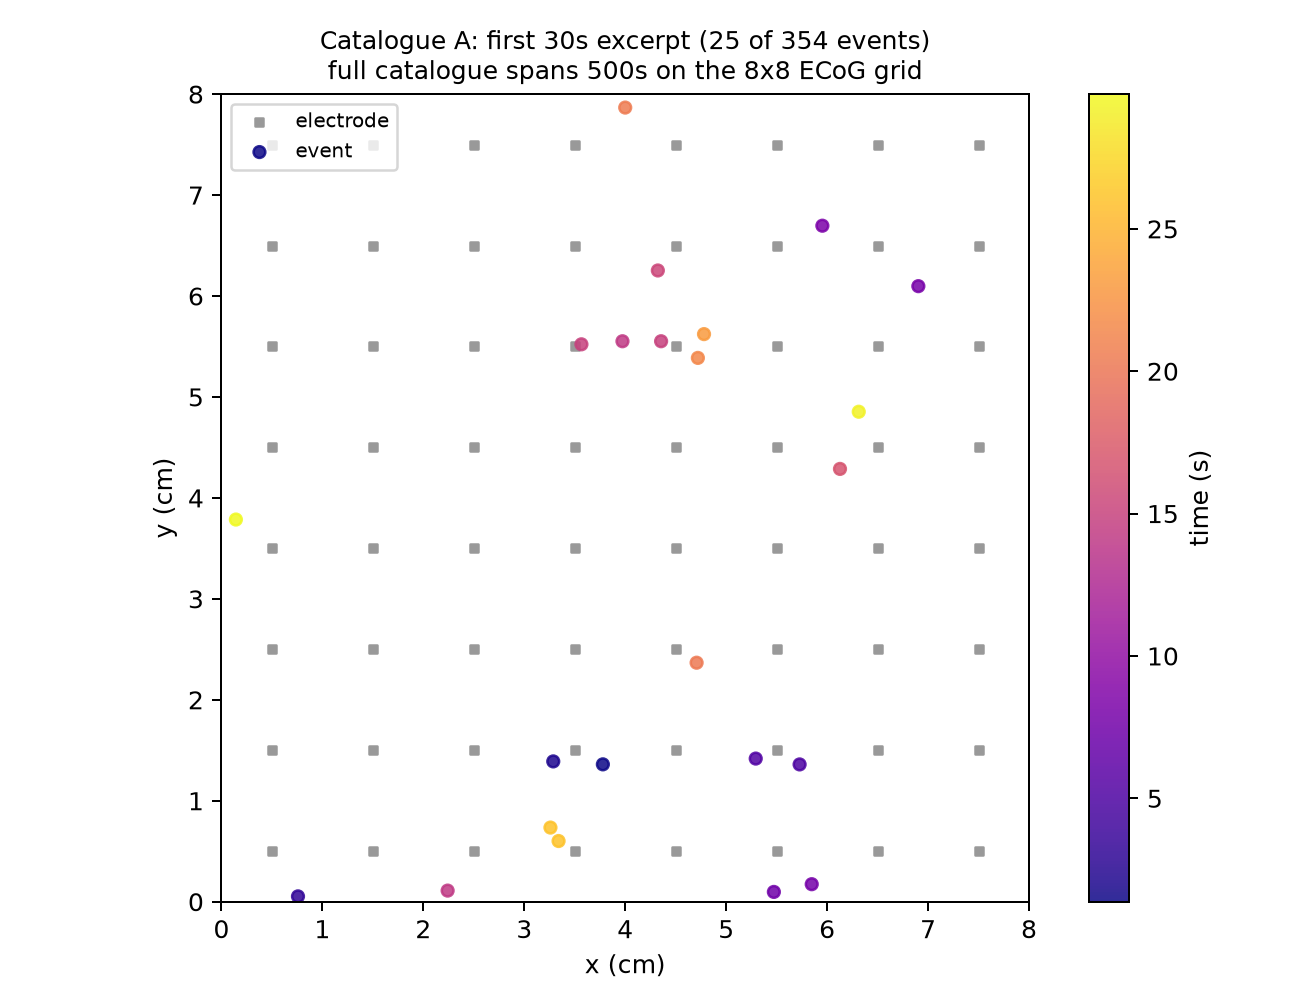
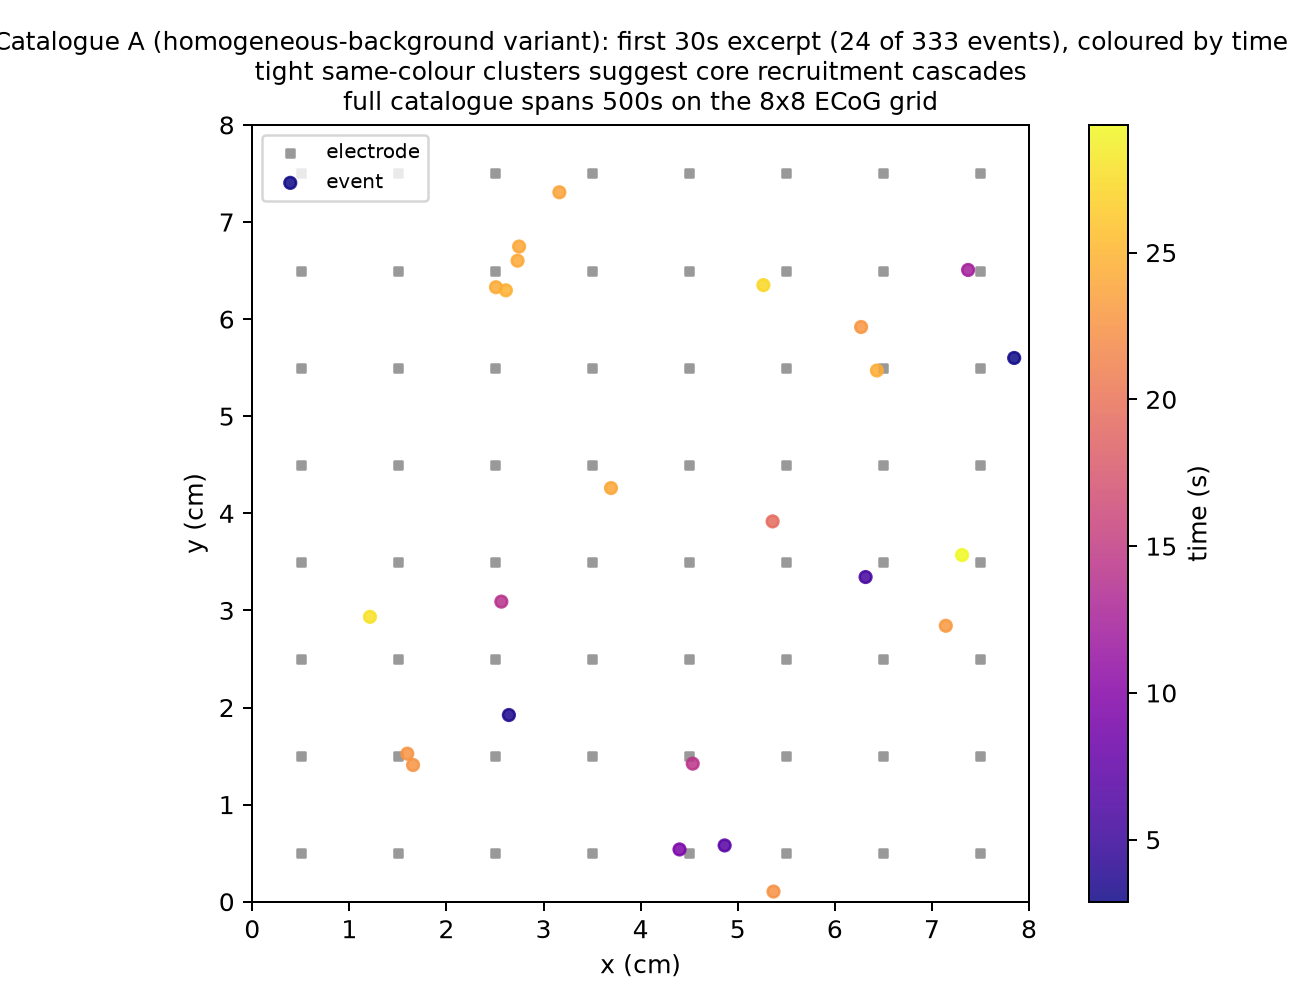
feat(extras-examples): reground spatial_hawkes_ecog in seizure core/penumbra decomposition
Reframes the space-time Hawkes + Cox-Hawkes background/excitation demo
as the clinical seizure "ictal core" (self-exciting recruitment
cascade) vs. "ictal penumbra" (tonic/hyperexcitable background)
decomposition described by Schevon et al. 2012, with the recruitment
kernel's spatial/temporal reach tied to Martinet et al. 2017 and
Truccolo et al. 2014. States explicitly that applying Cox-Hawkes to
the epilepsy core/penumbra split is a methodological opportunity, not
a result from any published epilepsy study. Relabels catalogue A
(homogeneous background) as the penumbra (background-dominated)
scenario and catalogue B (inhomogeneous LGCP background anchored at a
seizure-onset zone) as the core (self-excited cascade) scenario, and
updates print output, figure titles/labels, manifest.yml, and
extras_descriptions.yml to match. No numeric-model changes; recovered
sigma_space/c/K_branch and background_fraction are unchanged and
within tolerance.

diff --git a/examples/extras/spatial_hawkes_ecog_demo.py b/examples/extras/spatial_hawkes_ecog_demo.py
@@ -1,40 +1,103 @@
 #!/usr/bin/env python3
-"""Demo: propagating cortical activity across an ECoG grid (space-time Hawkes).
+"""Demo: seizure "core" vs. "penumbra" via space-time Hawkes + Cox-Hawkes
+on an ECoG grid.
 
 End-to-end exercise of the space-time self-exciting (ETAS-style) Hawkes
 process and the Cox-Hawkes background/excitation decomposition shipped in
 :mod:`nstat.extras.spatial`, grounded in a realistic **ECoG surface-grid**
 recording geometry:
 
+**Clinical question.**  Human intracranial recordings of focal seizures
+show a sharp spatial split between a small territory of intense,
+hypersynchronous firing where neurons are actively **recruited** into the
+seizure (the "ictal core") and a surrounding "ictal penumbra" where
+large-amplitude field potentials mask only sparse, unstructured firing,
+held back by a fast feedforward inhibitory restraint (Schevon et al.
+2012).  That same recruited-core / restrained-penumbra split organizes
+seizure activity across spatial scales as a self-propagating wave
+(Martinet et al. 2017), and shows up as tight, millisecond-precision
+neuronal-ensemble synchrony specifically within the recruited core
+(Truccolo et al. 2014).  This demo asks: **given only observed event
+times and positions, can a background/triggering decomposition recover
+which events were pulled into the self-exciting recruitment cascade (the
+core) vs. which were unrecruited background activity (the penumbra), and
+can it also localize *where* on the grid the underlying hyperexcitable
+tissue (a seizure-onset zone) sits?**
+
+**Modeling correspondence.**  The self-exciting Hawkes triggering kernel
+*is* the recruitment mechanism that builds a core: each discharge raises
+the near-term, nearby-in-space probability that its neighbours are
+recruited into synchronized firing -- exactly the hypersynchronous-cascade
+phenomenology above.  The background intensity -- homogeneous in
+catalogue A, an inhomogeneous log-Gaussian-Cox (LGCP) field anchored at a
+fixed hyperexcitable "seizure-onset zone" in catalogue B -- is the source
+of unrecruited, penumbra-like activity.  Declustering an event catalogue
+(branching EM's ``P(background)`` responsibilities) therefore *is* a
+core/penumbra classification at the single-event level: low
+``P(background)`` events were recruited into a cascade (core); high
+``P(background)`` events were not (penumbra).
+
 **Scenario.**  An **8x8 ECoG grid** (1cm pitch) captures self-exciting
 spatiotemporal spread of cortical events over a multi-minute continuous
 epoch -- the textbook model for interictal-spike propagation or
 travelling waves: each event *raises the probability* of a
-nearby-and-soon-after event, on top of a background rate that may itself
-vary across the grid (e.g. a chronically more active region near a
-lesion or epileptogenic focus).  Clinical interictal-spike-propagation
-studies routinely analyze continuous multi-minute (not sub-second)
-epochs precisely because the temporal/spatial triggering kernel is only
-well identified once many propagation cascades have been observed --
-this demo's ~4-8 minute synthetic epochs are chosen for that reason, not
-for narrative convenience.  All catalogues are fully synthetic branching
-simulations -- no real recording or dataset is used or claimed.
+nearby-and-soon-after event (recruitment into the core), on top of a
+background rate that supplies the unrecruited penumbra activity.  Both
+catalogues below demonstrate that *same* core(=triggered)/
+penumbra(=background) decomposition within a single recording; they
+differ only in the background model the estimator must contend with, not
+in which one is "core" and which is "penumbra".  Catalogue A gives the
+background a **homogeneous** rate everywhere on the grid -- no spatial
+landmark to go by, so branching EM's per-event declustering is the only
+way to tell core (triggered) from penumbra (background) events apart.
+Catalogue B instead anchors the background to a fixed,
+spatially-**inhomogeneous** hyperexcitable "seizure-onset zone", so that
+both the elevated background rate and the self-exciting cascade it seeds
+concentrate near that zone, and the Cox-Hawkes alternating estimator must
+separate the slow hyperexcitable-tissue field from the fast recruitment
+kernel riding on top of it.  Clinical interictal-spike-propagation studies routinely
+analyze continuous multi-minute (not sub-second) epochs precisely because
+the temporal/spatial triggering kernel is only well identified once many
+recruitment cascades have been observed -- this demo's ~4-8 minute
+synthetic epochs are chosen for that reason, not for narrative
+convenience.  All catalogues are fully synthetic branching simulations --
+no real recording or dataset is used or claimed.
+
+**Novelty.**  Cox-Hawkes (Miscouridou et al. 2022) -- a doubly-stochastic
+LGCP-background-plus-Hawkes-triggering model developed in the statistics
+literature for seismology/social-media cascades -- has not, to our
+knowledge, previously been applied to the epilepsy core/penumbra
+decomposition.  This demo presents that combination as a methodological
+opportunity for separating recruited-core from restrained-penumbra
+activity and localizing the seizure-onset zone, not as a result drawn
+from any published epilepsy study.
 
 Demonstrates:
 
-1. :func:`nstat.extras.spatial.simulate_spatial_hawkes` -- a synthetic
-   propagating catalogue on the grid with a **homogeneous** background.
+1. :func:`nstat.extras.spatial.simulate_spatial_hawkes` -- catalogue A,
+   the **homogeneous-background variant**: a synthetic recruitment-cascade
+   catalogue on the grid with a spatially uniform background.
 2. :func:`nstat.extras.spatial.em_spatial_hawkes` -- recover
    ``(mu, K_branch, c, sigma_space)`` by branching EM; ``sigma_space`` is
-   the **spatial spread of triggering** (how far, in cm, one event's
-   influence reaches) and ``1 / c`` is the **temporal triggering window**
-   (how soon offspring tend to follow, in seconds).
+   the **spatial spread of recruitment** (how far, in cm, one discharge's
+   influence reaches) and ``1 / c`` is the **temporal recruitment window**
+   (how soon recruited offspring tend to follow, in seconds); the
+   returned responsibilities also give a per-event core/penumbra
+   declustering.
 3. :func:`nstat.extras.spatial.simulate_cox_hawkes` /
-   :func:`nstat.extras.spatial.fit_cox_hawkes` -- a second catalogue with
-   an **inhomogeneous** log-Gaussian-Cox background (a fixed "hot" region
-   of the grid) plus the same self-excitation; the alternating estimator
-   separates the slow background-rate field from the fast self-excitation
-   kernel.
+   :func:`nstat.extras.spatial.fit_cox_hawkes` -- catalogue B, the
+   **inhomogeneous LGCP-background variant**: a second catalogue with a
+   fixed hyperexcitable "seizure-onset zone" background plus the same
+   self-exciting recruitment; the alternating estimator separates the
+   slow hyperexcitable-tissue (penumbra-source) field from the fast
+   recruitment (core) kernel.
+
+See also :mod:`spatial_gof_ecog_demo` -- asks whether concentrated ECoG
+activity is a genuinely propagating wavefront or a static hot-spot, the
+question this demo's core/penumbra decomposition presupposes an answer
+to; and :mod:`spatial_gibbs_demo` -- a complementary second-order-structure
+story (repulsion / exclusion-zone spacing) for electrode and contact
+placement rather than event recruitment.
 
 The script is **fully synthetic** -- no figshare dataset access required.
 
@@ -51,6 +114,21 @@ the repository -- the export flag exists for local inspection only.  CI
 never invokes it.
 
 References:
+
+Clinical motivation (human ictal core/penumbra structure):
+
+- Schevon CA, Weiss SA, McKhann G Jr, Goodman RR, Yuste R, Emerson RG,
+  Trevelyan AJ (2012). *Evidence of an inhibitory restraint of seizure
+  activity in humans.* Nat Commun 3:1060.
+- Truccolo W, Ahmed OJ, Harrison MT, Eskandar EN, Cosgrove GR, Madsen JR,
+  Blum AS, Potter NS, Hochberg LR, Cash SS (2014). *Neuronal ensemble
+  synchrony during human focal seizures.* J Neurosci 34(30):9927-9944.
+- Martinet LE, Fiddyment G, Madsen JR, Eskandar EN, Truccolo W, Eden UT,
+  Cash SS, Kramer MA (2017). *Human seizures couple across spatial scales
+  through travelling wave dynamics.* Nat Commun 8:14896.
+
+Statistical methods:
+
 - Veen A, Schoenberg FP (2008). *Estimation of space-time branching
   process models in seismology using an EM-type algorithm.* JASA
   103(482):614-624.
@@ -60,6 +138,8 @@ References:
   occurrences.* Ann. Inst. Statist. Math. 50(2):379-402.
 - Miscouridou X, Bhatt S, Mohler G, Flaxman S, Bhamidi S (2022).
   *Cox-Hawkes: doubly stochastic spatiotemporal Poisson processes.* TMLR.
+  (Applying it to the epilepsy core/penumbra decomposition is, to our
+  knowledge, novel -- see "Novelty" above.)
 - Moller J, Rasmussen JG (2005). *Perfect simulation of Hawkes
   processes.* Adv. Appl. Probab. 37(3):629-646 (branching simulator).
 """
@@ -89,10 +169,14 @@ GRID_EDGE_CM = 2.0 * MARGIN_CM + PITCH_CM * (N_SIDE - 1)  # == 8.0 cm
 
 DOMAIN = ((0.0, GRID_EDGE_CM), (0.0, GRID_EDGE_CM))
 
-# Catalogue A: homogeneous background + self-excitation.  ``c`` (temporal
-# decay, /s) and ``T`` are chosen so that T is long relative to the mean
-# triggering delay 1/c -- branching EM only identifies (K_branch, c) well
-# once many decay cycles have been observed (per the companion test
+# Catalogue A: homogeneous-background variant -- a spatially uniform
+# background (no anatomical landmark) plus the same self-exciting
+# recruitment cascade (core) as catalogue B.  Branching EM recovers the
+# core (triggered) vs. penumbra (background) split for each event via its
+# ``P(background)`` responsibilities.  ``c`` (temporal decay, /s) and
+# ``T`` are chosen so that T is long relative to the mean recruitment
+# delay 1/c -- branching EM only identifies (K_branch, c) well once many
+# recruitment cascades have been observed (per the companion test
 # ``tests/extras/test_spatial_spatial_hawkes.py::test_em_recovers_all_four_params``,
 # which uses the same T >> 1/c regime).
 MU_TRUE = 0.4  # events/s
@@ -101,7 +185,12 @@ C_TRUE = 1.2  # mean triggering delay 1/c ~= 0.83s
 SIGMA_SPACE_TRUE = 0.35
 T_A = 500.0  # ~8.3 minute continuous epoch
 
-# Catalogue B: inhomogeneous (Cox) background + self-excitation.
+# Catalogue B: inhomogeneous LGCP-background variant -- a spatially
+# varying (Cox) hyperexcitable "seizure-onset zone" background, near
+# which the self-exciting recruitment cascade concentrates, plus the
+# same self-excitation kernel as catalogue A.  The Cox-Hawkes alternating
+# estimator recovers the same core (triggered) vs. penumbra (background)
+# split as catalogue A, this time against a non-uniform background field.
 #
 # ``fit_cox_hawkes`` has no ``length_scale_space``/``length_scale_time``
 # passthrough to its internal ``lgcp_st_fit`` call -- it always uses that
@@ -170,7 +259,7 @@ def run_demo(
     visible: bool = True,
     plot_style: str = "legacy",
 ) -> dict:
-    """Run the ECoG propagating-activity space-time Hawkes demo.
+    """Run the ECoG seizure core/penumbra space-time Hawkes + Cox-Hawkes demo.
 
     Returns
     -------
@@ -189,7 +278,8 @@ def run_demo(
     )
 
     print("=" * 72)
-    print("Space-time Hawkes propagation on a synthetic 8x8 ECoG grid")
+    print("Seizure core/penumbra decomposition via space-time Hawkes "
+          "on a synthetic 8x8 ECoG grid")
     print("=" * 72)
     print(
         f"Grid footprint: {GRID_EDGE_CM:.1f}cm x {GRID_EDGE_CM:.1f}cm, "
@@ -204,12 +294,16 @@ def run_demo(
     # not silently shift whenever catalogue A's simulation code changes.
     rng_b = np.random.default_rng(seed + 3)
 
-    # ---- Catalogue A: homogeneous background + self-excitation. ----
+    # ---- Catalogue A: homogeneous-background variant + the same
+    # self-exciting recruitment (core) cascade as catalogue B. ----
     pts_a, t_a = simulate_spatial_hawkes(
         MU_TRUE, K_BRANCH_TRUE, C_TRUE, SIGMA_SPACE_TRUE,
         domain=DOMAIN, T=T_A, rng=rng,
     )
-    print(f"Catalogue A (homogeneous bg): {pts_a.shape[0]} events over {T_A:.1f}s")
+    print(
+        f"Catalogue A -- homogeneous-background variant: "
+        f"{pts_a.shape[0]} events over {T_A:.1f}s"
+    )
 
     fit_a = em_spatial_hawkes(
         pts_a, t_a, domain=DOMAIN, T=T_A,
@@ -217,19 +311,21 @@ def run_demo(
         return_responsibilities=True,
     )
     print()
-    print("Catalogue A recovery (branching EM):")
+    print("Catalogue A recovery (branching EM -- core-cascade kernel + penumbra declustering):")
     print(f"  {'param':>14} | {'true':>8} | {'fitted':>8}")
     print(f"  {'mu (rate, /s)':>14} | {MU_TRUE:8.3f} | {fit_a.mu_hat:8.3f}")
     print(f"  {'K_branch':>14} | {K_BRANCH_TRUE:8.3f} | {fit_a.K_branch_hat:8.3f}")
     print(f"  {'c (1/s)':>14} | {C_TRUE:8.3f} | {fit_a.c_hat:8.3f}")
     print(f"  {'sigma_space (cm)':>14} | {SIGMA_SPACE_TRUE:8.3f} | {fit_a.sigma_space_hat:8.3f}")
     print(
-        f"  interpretation: triggering reaches ~{fit_a.sigma_space_hat:.2f}cm "
+        f"  interpretation: core recruitment reaches ~{fit_a.sigma_space_hat:.2f}cm "
         f"spatially and decays with a ~{1.0 / fit_a.c_hat:.2f}s time window "
         f"(converged={fit_a.converged}, n_iter={fit_a.n_iter})"
     )
 
-    # ---- Catalogue B: inhomogeneous (Cox) background + self-excitation. ----
+    # ---- Catalogue B: inhomogeneous LGCP-background variant
+    # (seizure-onset-zone background) + the same self-exciting
+    # recruitment cascade as catalogue A. ----
     # Simulated + fit on the normalized unit-square DOMAIN_B (see the
     # module-level note by DOMAIN_B for why).
     pts_b, t_b = simulate_cox_hawkes(
@@ -238,7 +334,11 @@ def run_demo(
     )
     pts_b, t_b = _clip_to_domain(pts_b, t_b, domain=DOMAIN_B)
     print()
-    print(f"Catalogue B (inhomogeneous bg): {pts_b.shape[0]} events over {T_B:.1f}s")
+    print(
+        f"Catalogue B -- inhomogeneous LGCP-background variant "
+        f"(seizure-onset-zone background): {pts_b.shape[0]} events over "
+        f"{T_B:.1f}s"
+    )
 
     fit_b = fit_cox_hawkes(
         pts_b, t_b, domain=DOMAIN_B, period=(0.0, T_B), grid=LGCP_GRID,
@@ -246,7 +346,10 @@ def run_demo(
         hawkes_spec=SpatialHawkesSpec(K0=0.3, c0=1.0, sigma0=SIGMA_SPACE_COX_TRUE),
     )
     print()
-    print("Catalogue B recovery (Cox-Hawkes alternating estimator):")
+    print(
+        "Catalogue B recovery (Cox-Hawkes alternating estimator -- "
+        "seizure-onset-zone field + core-cascade kernel):"
+    )
     print(f"  {'param':>14} | {'true':>8} | {'fitted':>8}")
     print(f"  {'K_branch':>14} | {K_BRANCH_COX_TRUE:8.3f} | {fit_b.K_branch_hat:8.3f}")
     print(f"  {'c (1/s)':>14} | {C_COX_TRUE:8.3f} | {fit_b.c_hat:8.3f}")
@@ -255,17 +358,22 @@ def run_demo(
         f"{fit_b.sigma_space_hat * GRID_EDGE_CM:8.3f}"
     )
     print(
-        f"  background_fraction={fit_b.background_fraction:.3f} "
-        f"(converged={fit_b.converged}, n_outer={fit_b.n_outer})"
+        f"  background_fraction={fit_b.background_fraction:.3f} (penumbra, "
+        f"i.e. background, share of events; converged={fit_b.converged}, "
+        f"n_outer={fit_b.n_outer})"
     )
 
     # ---- Figures ----
     electrodes = _electrode_positions()
 
     # === FIGURE: fig01_propagation_scatter.png ===
-    # A short excerpt (not the full multi-minute catalogue) is shown so
-    # individual propagation cascades -- tight in time, spreading in
-    # space -- are visually distinguishable.
+    # A short excerpt (not the full multi-minute catalogue) is shown,
+    # coloured by elapsed time, so that visually tight temporal clusters
+    # -- suggestive of individual recruitment cascades building a "core"
+    # -- stand out against the sparser, scattered "penumbra" background
+    # events.  Colour encodes time only, not P(background), so a tight
+    # cluster is suggestive of a cascade, not proof of one (temporally
+    # close background events can look the same).
     excerpt_s = 30.0
     excerpt_mask = t_a <= excerpt_s
     fig1, ax1 = plt.subplots(figsize=(7.2, 5.6))
@@ -284,8 +392,10 @@ def run_demo(
     ax1.set_xlabel("x (cm)")
     ax1.set_ylabel("y (cm)")
     ax1.set_title(
-        f"Catalogue A: first {excerpt_s:.0f}s excerpt "
-        f"({int(excerpt_mask.sum())} of {pts_a.shape[0]} events)\n"
+        f"Catalogue A (homogeneous-background variant): first "
+        f"{excerpt_s:.0f}s excerpt ({int(excerpt_mask.sum())} of "
+        f"{pts_a.shape[0]} events), coloured by time\n"
+        f"tight same-colour clusters suggest core recruitment cascades\n"
         f"full catalogue spans {T_A:.0f}s on the {N_SIDE}x{N_SIDE} ECoG grid",
         fontsize=10,
     )
@@ -303,7 +413,7 @@ def run_demo(
     )
     ax2a.set_xlabel("elapsed time since parent (s)")
     ax2a.set_ylabel("g(t) = c * exp(-c t)")
-    ax2a.set_title("Temporal triggering kernel")
+    ax2a.set_title("Temporal recruitment (core) kernel")
     ax2a.legend(loc="upper right", fontsize=8)
 
     r_grid = np.linspace(0.0, 2.0, 200)
@@ -317,9 +427,12 @@ def run_demo(
     ax2b.plot(r_grid, h_hat, color="tab:red", lw=1.8, label="recovered h(r)")
     ax2b.set_xlabel("spatial offset r (cm)")
     ax2b.set_ylabel("h(r), isotropic Gaussian")
-    ax2b.set_title("Spatial triggering kernel")
+    ax2b.set_title("Spatial recruitment (core) kernel")
     ax2b.legend(loc="upper right", fontsize=8)
-    fig2.suptitle("Recovered ETAS-style triggering kernels (catalogue A)")
+    fig2.suptitle(
+        "Recovered self-exciting recruitment-cascade (core) kernels "
+        "(catalogue A, homogeneous-background variant)"
+    )
     # === END FIGURE ===
 
     # === FIGURE: fig03_background_excitation_decomposition.png ===
@@ -332,13 +445,13 @@ def run_demo(
         pts_a[:, 0], pts_a[:, 1], c=resp_diag, s=18, cmap="coolwarm",
         vmin=0.0, vmax=1.0,
     )
-    fig3.colorbar(sc3, ax=axes3[0], label="P(background)")
+    fig3.colorbar(sc3, ax=axes3[0], label="P(background) = P(penumbra)")
     axes3[0].set_xlim(*DOMAIN[0])
     axes3[0].set_ylim(*DOMAIN[1])
     axes3[0].set_aspect("equal")
     axes3[0].set_xlabel("x (cm)")
     axes3[0].set_ylabel("y (cm)")
-    axes3[0].set_title("Declustering (catalogue A)")
+    axes3[0].set_title("Core vs. penumbra (catalogue A)", fontsize=10)
 
     # Displayed in physical cm units for readability (see the DOMAIN_B note):
     # rate density lambda_cm = lambda_unit / GRID_EDGE_CM^2, x_cm = x_unit * GRID_EDGE_CM.
@@ -353,7 +466,7 @@ def run_demo(
     )
     axes3[1].set_xlabel("x (cm)")
     axes3[1].set_ylabel("y (cm)")
-    axes3[1].set_title("True background rate (catalogue B)")
+    axes3[1].set_title("True seizure-onset-zone rate (catalogue B)")
     fig3.colorbar(im_true, ax=axes3[1], fraction=0.046, pad=0.04, label="Hz/cm^2")
 
     mean_bg, _lo_bg, _hi_bg = fit_b.background.rate_map(T_B / 2.0, level=0.9)
@@ -364,10 +477,10 @@ def run_demo(
     )
     axes3[2].set_xlabel("x (cm)")
     axes3[2].set_ylabel("y (cm)")
-    axes3[2].set_title("Fitted LGCP background (catalogue B)")
+    axes3[2].set_title("Fitted seizure-onset-zone rate (catalogue B)")
     fig3.colorbar(im_fit, ax=axes3[2], fraction=0.046, pad=0.04, label="Hz/cm^2")
 
-    fig3.suptitle("Background vs excitation decomposition")
+    fig3.suptitle("Core (self-excited cascade) vs. penumbra (background) decomposition")
     # === END FIGURE ===
 
     figures = [fig1, fig2, fig3]
@@ -410,8 +523,8 @@ def run_demo(
 
 def main(argv: list[str] | None = None) -> int:
     parser = argparse.ArgumentParser(
-        description="Space-time Hawkes propagation demo on a synthetic "
-                    "ECoG grid",
+        description="Seizure core/penumbra decomposition via space-time "
+                    "Hawkes + Cox-Hawkes on a synthetic ECoG grid",
     )
     parser.add_argument(
         "--seed", type=int, default=20260703,
